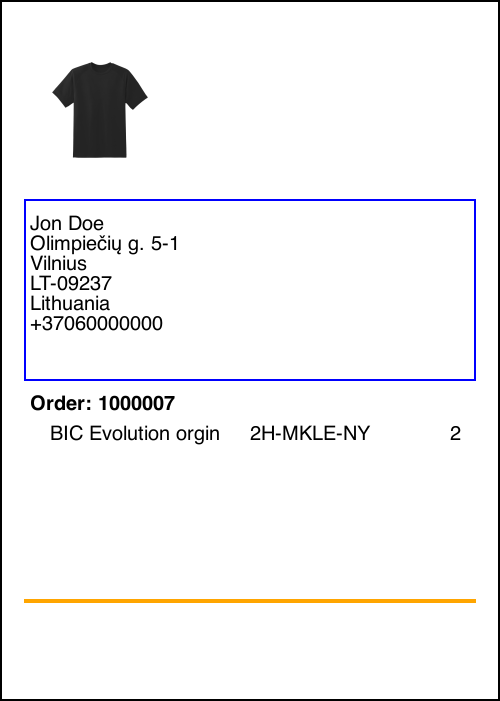
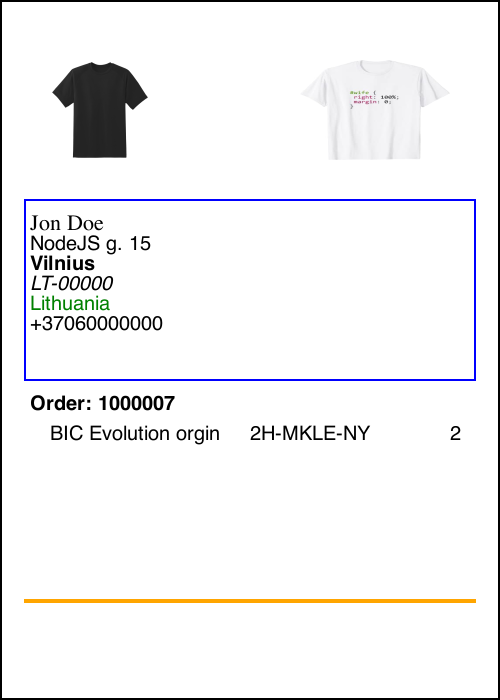
add: submit, cleanup

diff --git a/controlers/createLabel.js b/controlers/createLabel.js
@@ -3,69 +3,81 @@ const fs = require("fs");
 const { createCanvas, loadImage, Image } = require("canvas");
 
 const createLabel = async (req, res, next) => {
-  const out = fs.createWriteStream(path.join(__dirname, "../public/label.png"));
-  const data = req.body;
+  try {
+    const out = fs.createWriteStream(
+      path.join(__dirname, "../public/label.png")
+    );
+    const data = req.body;
+    let width = 400;
+    let height = 600;
+    data.canvas?.height ? (height = Number(data.canvas.height)) : "";
+    data.canvas?.width ? (width = Number(data.canvas.width)) : "";
 
-  let width = 400;
-  let height = 600;
-  data.canvas?.height ? (height = Number(data.canvas.height)) : "";
-  data.canvas?.width ? (width = Number(data.canvas.width)) : "";
+    const canvas = createCanvas(width, height);
+    const context = canvas.getContext("2d");
+    context.lineWidth = 4;
+    context.strokeStyle = "black";
+    context.strokeRect(0, 0, width, height);
+    context.fillStyle = "#fff";
 
-  const canvas = createCanvas(width, height);
-  const context = canvas.getContext("2d");
-  context.lineWidth = 4;
-  context.strokeStyle = "black";
-  context.strokeRect(0, 0, width, height);
-  context.fillStyle = "#fff";
-
-  if (data.textElements) {
-    if (data.textElements[0]) {
-      data.textElements.forEach((element) => {
-        context.fillStyle = element.color;
-        context.font = element.font;
-        context.fillText(
-          element.text,
-          element.position?.x,
-          element.position?.y,
-          element.width
-        );
-      });
+    if (data.textElements) {
+      if (data.textElements[0]) {
+        data.textElements.forEach((element) => {
+          context.fillStyle = element.color;
+          context.font = element.font;
+          context.fillText(
+            element.text,
+            element.position?.x,
+            element.position?.y,
+            element.width
+          );
+        });
+      }
     }
-  }
-  if (data.rectangleElements) {
-    if (data.rectangleElements[0]) {
-      data.rectangleElements.forEach((element) => {
-        context.lineWidth = element.stroke?.size;
-        context.strokeStyle = element.stroke?.color;
-        context.strokeRect(
-          element.position?.x,
-          element.position?.y,
-          element.width,
-          element.height
-        );
-      });
-    }
-  }
-  if (data.imageElements) {
-    if (data.imageElements[0]) {
-      data.imageElements.forEach((element) => {
-        loadImage(element.url).then((image) => {
-          context.drawImage(
-            image,
+    if (data.rectangleElements) {
+      if (data.rectangleElements[0]) {
+        data.rectangleElements.forEach((element) => {
+          context.lineWidth = element.stroke?.size;
+          context.strokeStyle = element.stroke?.color;
+          context.strokeRect(
             element.position?.x,
             element.position?.y,
             element.width,
             element.height
           );
-          const buffer = canvas.toBuffer("image/png");
-          fs.writeFileSync(path.join(__dirname, "../public/label.png"), buffer);
         });
-      });
+      }
     }
+    if (data.imageElements) {
+      if (data.imageElements[0]) {
+        data.imageElements.forEach((element) => {
+          loadImage(element.url).then((image) => {
+            context.drawImage(
+              image,
+              element.position?.x,
+              element.position?.y,
+              element.width,
+              element.height
+            );
+            const buffer = canvas.toBuffer("image/png");
+            fs.writeFileSync(
+              path.join(__dirname, "../public/label.png"),
+              buffer
+            );
+          });
+        });
+      }
+    }
+    const stream = canvas.createPNGStream();
+    stream.pipe(out);
+    out.on("finish", () => {
+      console.log("The PNG file was created.");
+    });
+    out.on("error", (err) => console.log(err));
+    res.status(201).end();
+  } catch (error) {
+    console.log(error);
+    next(error);
   }
-  const stream = canvas.createPNGStream();
-  stream.pipe(out);
-  out.on("finish", () => console.log("The PNG file was created."));
-  out.on("error", (err) => console.log(err));
 };
 module.exports = createLabel;

diff --git a/controlers/getLabel.js b/controlers/getLabel.js
@@ -4,6 +4,7 @@ const fs = require("fs");
 const getLabel = (req, res, next) => {
   let htmlFile = fs.readFileSync(path.join(__dirname, "../label.html"));
   let example = fs.readFileSync(path.join(__dirname, "../example.json"));
+
   res.render("index.ejs", { htmlFile, example });
 };
 

diff --git a/public/app.css b/public/app.css
@@ -24,3 +24,8 @@ textarea {
   width: 500px;
   height: 800px;
 }
+input[type*="submit"] {
+  position: absolute;
+  margin-left: 1rem;
+  padding: 0.5rem;
+}
